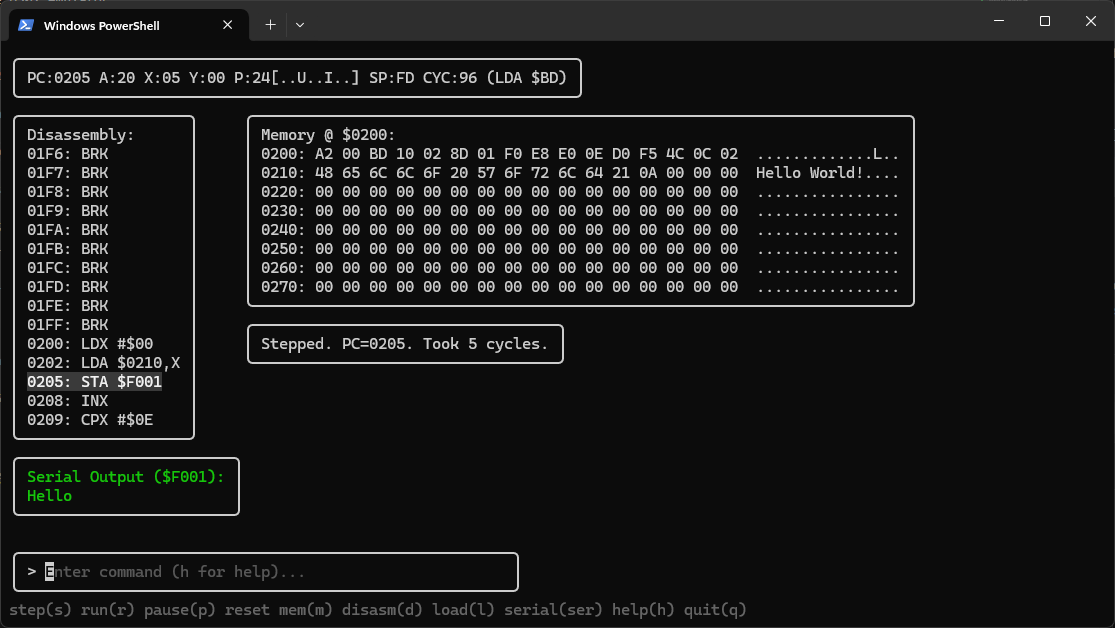
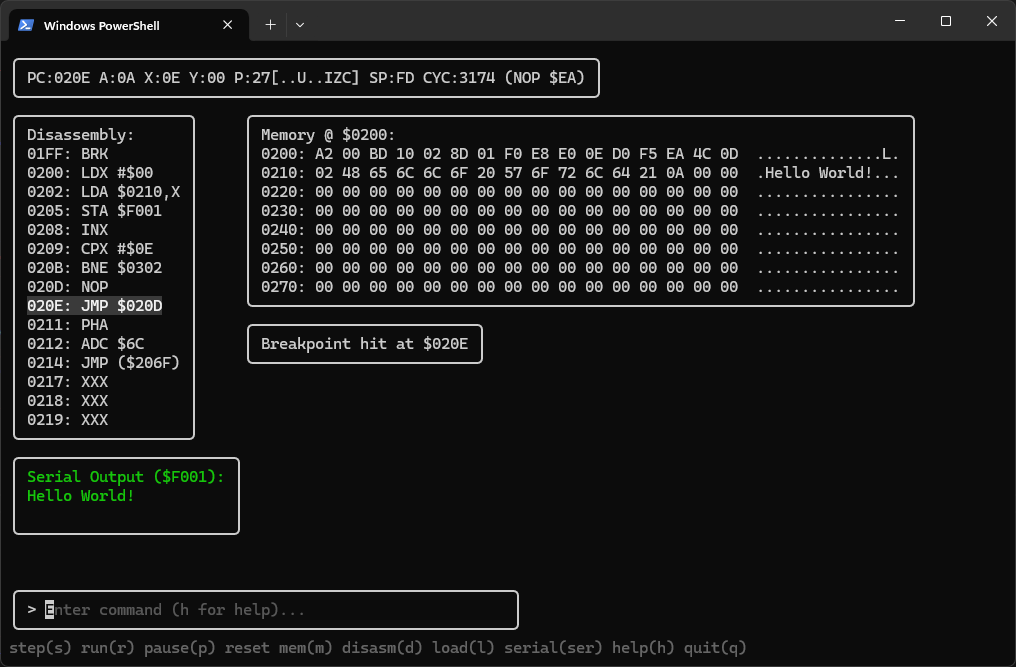
Breakpoints!

Changed region(s): [[0.0, 0.0, 1.0, 0.8471], [0.0, 0.8774, 0.7323, 0.9984]]

diff --git a/main.go b/main.go
@@ -24,16 +24,18 @@ const defaultLoadAddr uint16 = 0x0200 // Common area for small programs
 // and then loop indefinitely.
 // Org $0200
 var helloWorldProgram = []uint8{
-	// Start:
+	// Start: $0200
 	0xA2, 0x00, // LDX #$00      ; X = 0 (index into message)
-	// Loop:
+	// Loop: $0202
 	0xBD, 0x10, 0x02, // LDA Message,X ; Load character A = RAM[0x0210 + X]
 	0x8D, 0x01, 0xF0, // STA $F001     ; Write character to serial
 	0xE8,       // INX             ; Increment index
 	0xE0, 0x0E, // CPX #$0E      ; Compare X to length (14 chars incl. null)
-	0xD0, 0xF5, // BNE Loop      ; Branch back if not equal
-	// Halt:
-	0x4C, 0x0C, 0x02, // JMP Halt      ; Infinite loop jump to self (0x020C)
+	0xD0, 0xF5, // BNE Loop      ; Branch back to $0202 if not equal
+	// Finished: $020C
+	0xEA, // NOP           ; <<< Breakpoint target after loop finishes
+	// Halt: $020D (Optional infinite loop after NOP)
+	0x4C, 0x0D, 0x02, // JMP Halt      ; Loop here indefinitely after hitting NOP
 	// Message: (Starts at 0x0210)
 	'H', 'e', 'l', 'l', 'o', ' ', 'W', 'o', 'r', 'l', 'd', '!', '\n', 0x00, // The message + null terminator
 }
@@ -52,10 +54,11 @@ type model struct {
 	bus    *MainBus
 	serial *SerialDevice
 
-	textInput textinput.Model
-	mode      Mode
-	err       error
-	message   string // General status messages
+	textInput   textinput.Model
+	mode        Mode
+	err         error
+	message     string          // General status messages
+	breakpoints map[uint16]bool // Stores addresses of active breakpoints
 
 	width, height int
 
@@ -105,7 +108,8 @@ func initialModel() model {
 		serial:         serialDev,
 		textInput:      ti,
 		mode:           CommandMode,
-		memViewAddr:    defaultLoadAddr, // Start memory view near code
+		breakpoints:    make(map[uint16]bool), // Initially no breakpoints
+		memViewAddr:    defaultLoadAddr,       // Start memory view near code
 		styleHelp:      lipgloss.NewStyle().Faint(true),
 		styleCPU:       lipgloss.NewStyle().Border(lipgloss.RoundedBorder()).Padding(0, 1),
 		styleDisasm:    lipgloss.NewStyle().Border(lipgloss.RoundedBorder()).Padding(0, 1),
@@ -171,6 +175,21 @@ func (m model) Update(msg tea.Msg) (tea.Model, tea.Cmd) {
 
 	case tickMsg:
 		if m.mode == RunningMode {
+			// --- Breakpoint Check ---
+			// Check *before* executing the instruction at PC if Cycles is 0
+			if m.cpu.Cycles == 0 {
+				currentPC := m.cpu.PC
+				if _, hit := m.breakpoints[currentPC]; hit {
+					// Breakpoint Hit!
+					m.mode = CommandMode // Switch to command mode
+					m.message = fmt.Sprintf("Breakpoint hit at $%04X", currentPC)
+					m.textInput.Focus()
+					m.updateViews() // Update views to show paused state
+					// Return *without* executing the instruction or scheduling next tick
+					return m, textinput.Blink
+				}
+			}
+
 			// Execute one CPU clock cycle
 			m.cpu.Clock()
 			// Continue ticking only if Cycles > 0 or if instruction finished
@@ -206,7 +225,7 @@ func (m *model) handleCommand(input string) tea.Cmd {
 
 	switch command {
 	case "h", "help":
-		m.message = "Commands: s[tep], r[un], p[ause], reset, m[em] <addr>,\n d[isasm], load <file> <addr>, ser[ial], q[uit]"
+		m.message = "Commands: s[tep], r[un], p[ause], reset, m[em] <addr>,\n b[reak] <addr>, cb <addr>, lb, d[isasm], load <file> <addr>, ser[ial], q[uit]"
 	case "s", "step":
 		// Execute one full instruction
 		m.message = "Stepping..."
@@ -247,7 +266,8 @@ func (m *model) handleCommand(input string) tea.Cmd {
 			m.message = fmt.Sprintf("Error reloading program: %v", err)
 		} else {
 			m.cpu.PC = defaultLoadAddr
-			m.message = "CPU Reset. Program reloaded. PC set to $0200."
+			m.breakpoints = make(map[uint16]bool) // Clear breakpoints on reset
+			m.message = fmt.Sprintf("CPU Reset. Program reloaded. Breakpoints cleared. PC set to $%04X.", m.cpu.PC)
 		}
 	case "m", "mem":
 		if len(parts) < 2 {
@@ -306,6 +326,71 @@ func (m *model) handleCommand(input string) tea.Cmd {
 		// m.cpu.PC = loadAddr
 		// m.message += fmt.Sprintf(" PC set to $%04X.", loadAddr)
 		m.updateViews() // Refresh memory/disassembly
+	case "b", "break": // <-- Add Breakpoint
+		if len(parts) != 2 {
+			m.err = fmt.Errorf("usage: b <hex_address>")
+			m.message = fmt.Sprintf("Error: %v", m.err)
+			return nil
+		}
+		addrStr := strings.TrimPrefix(parts[1], "$")
+		addr64, err := strconv.ParseUint(addrStr, 16, 16)
+		if err != nil {
+			m.err = fmt.Errorf("invalid breakpoint address format '%s': %w", parts[1], err)
+			m.message = fmt.Sprintf("Error: %v", m.err)
+			return nil
+		}
+		addr := uint16(addr64)
+		m.breakpoints[addr] = true
+		m.message = fmt.Sprintf("Breakpoint set at $%04X.", addr)
+	case "cb", "clearbreak": // <-- Clear Breakpoint
+		if len(parts) != 2 {
+			m.err = fmt.Errorf("usage: cb <hex_address>")
+			m.message = fmt.Sprintf("Error: %v", m.err)
+			return nil
+		}
+		addrStr := strings.TrimPrefix(parts[1], "$")
+		addr64, err := strconv.ParseUint(addrStr, 16, 16)
+		if err != nil {
+			m.err = fmt.Errorf("invalid breakpoint address format '%s': %w", parts[1], err)
+			m.message = fmt.Sprintf("Error: %v", m.err)
+			return nil
+		}
+		addr := uint16(addr64)
+		if _, exists := m.breakpoints[addr]; exists {
+			delete(m.breakpoints, addr)
+			m.message = fmt.Sprintf("Breakpoint cleared at $%04X.", addr)
+		} else {
+			m.message = fmt.Sprintf("No breakpoint found at $%04X.", addr)
+		}
+	case "lb", "listbreaks": // <-- List Breakpoints
+		if len(m.breakpoints) == 0 {
+			m.message = "No breakpoints set."
+		} else {
+			var sb strings.Builder
+			sb.WriteString("Breakpoints set at: ")
+			first := true
+			// Sort keys for consistent output
+			keys := make([]uint16, 0, len(m.breakpoints))
+			for k := range m.breakpoints {
+				keys = append(keys, k)
+			}
+			// Simple sort
+			for i := 0; i < len(keys); i++ {
+				for j := i + 1; j < len(keys); j++ {
+					if keys[i] > keys[j] {
+						keys[i], keys[j] = keys[j], keys[i]
+					}
+				}
+			}
+			for _, addr := range keys {
+				if !first {
+					sb.WriteString(", ")
+				}
+				sb.WriteString(fmt.Sprintf("$%04X", addr))
+				first = false
+			}
+			m.message = sb.String()
+		}
 	case "ser", "serial":
 		// Serial view is updated automatically, this command could be used
 		// for other serial actions later (e.g., clear, show status)
